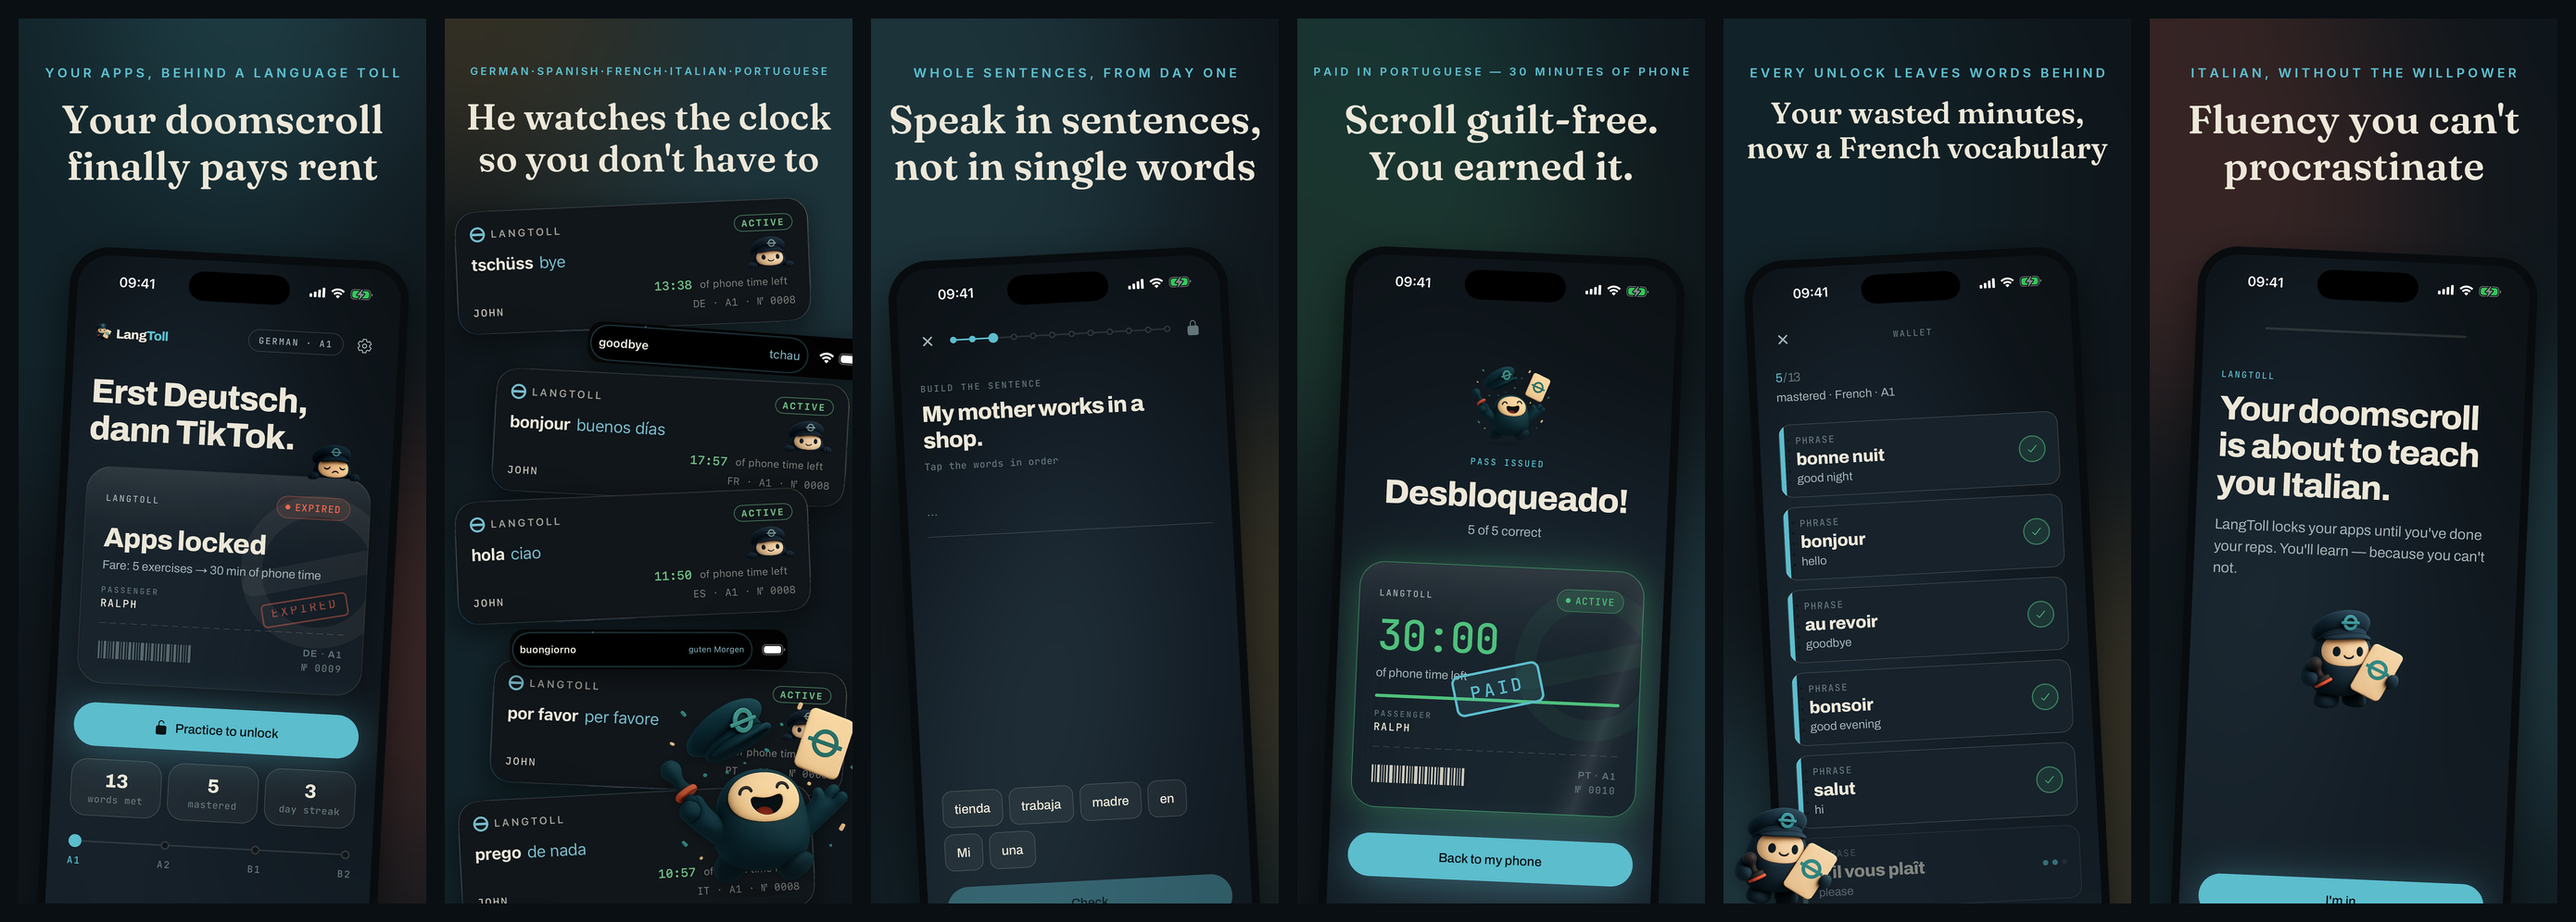
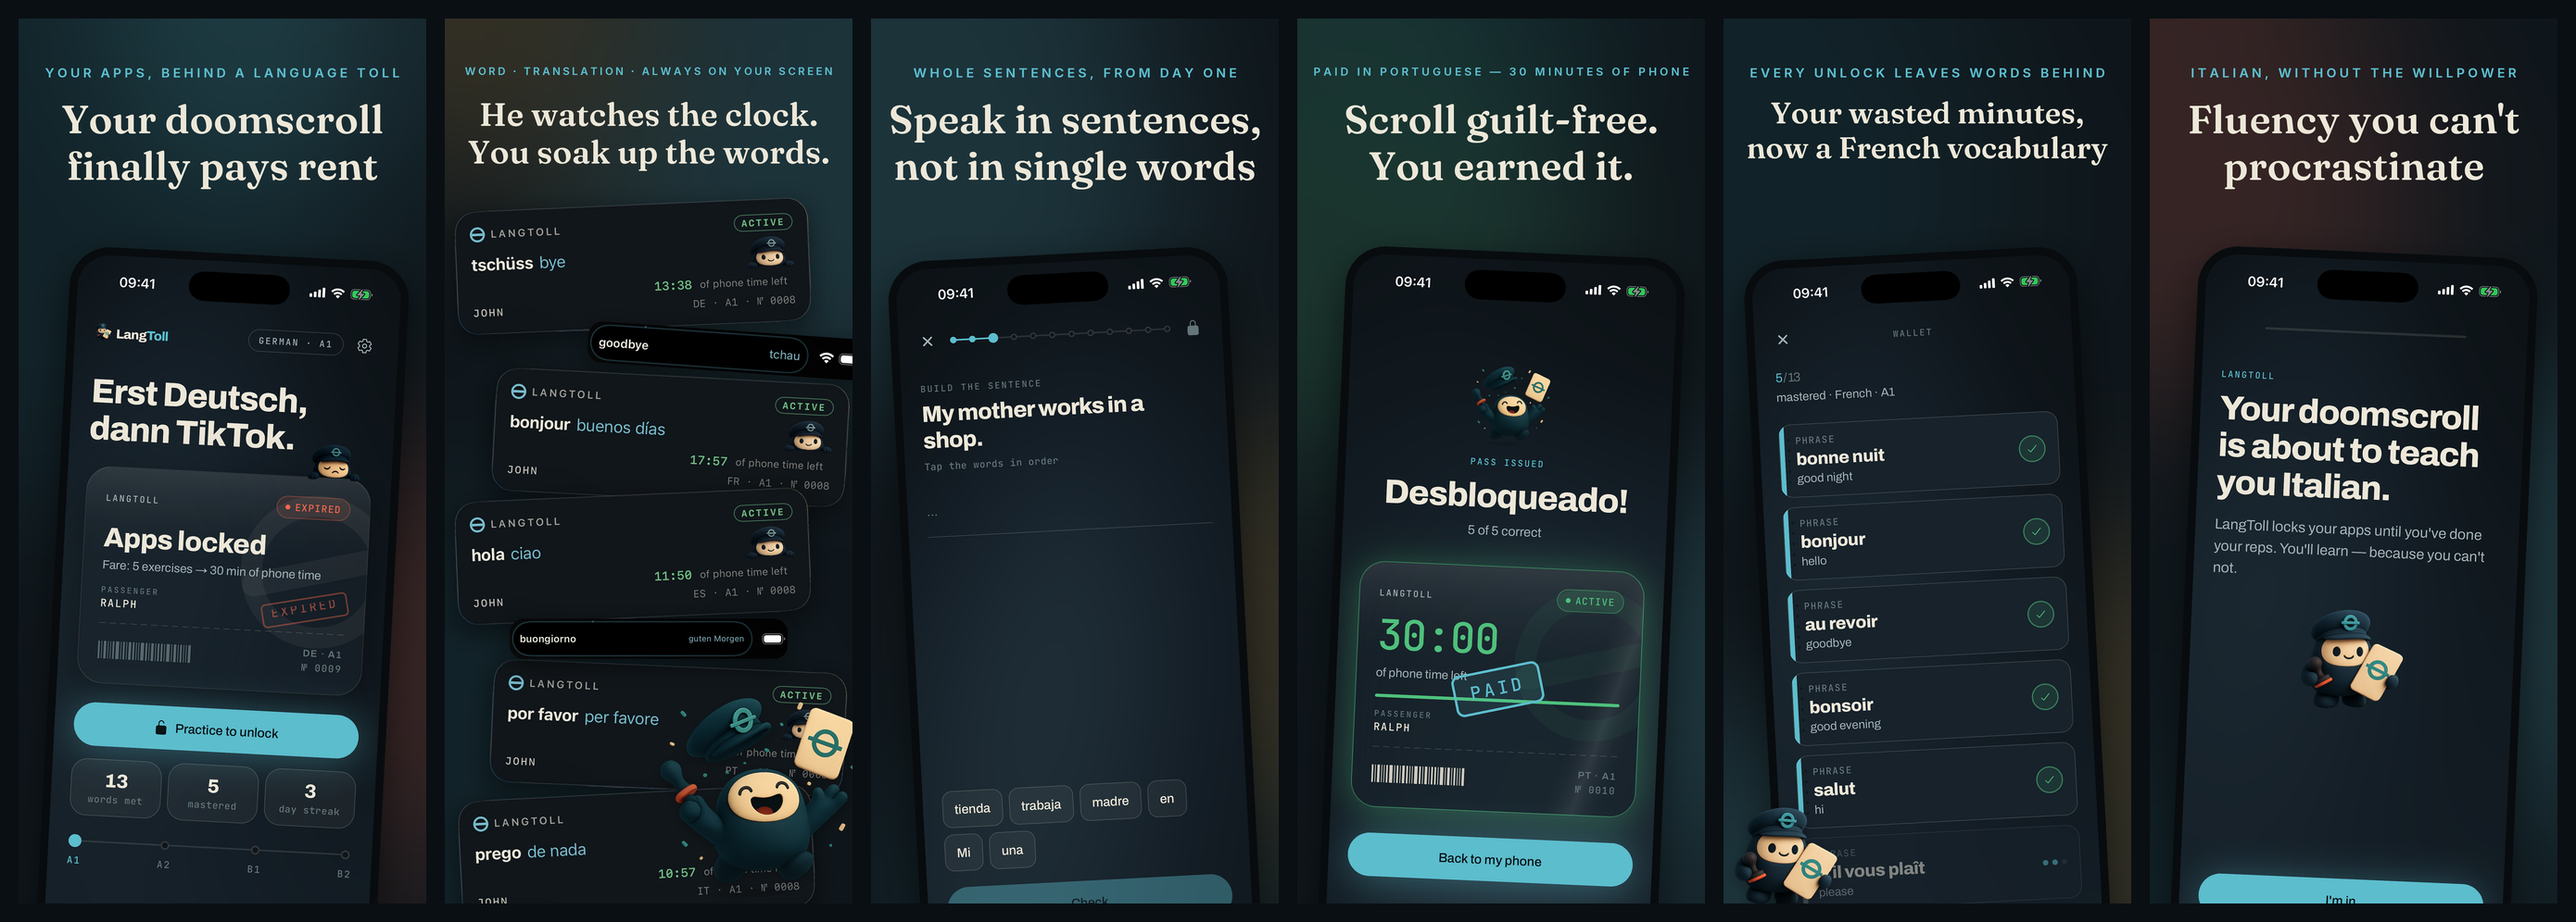
shots: shot 2 final — He watches the clock. You soak up the words.
The pill settles at its midpoint, and the copy now splits the two surfaces'
jobs: kicker states the mechanism (word · translation · always on your
screen), headline sells the becoming — Tolly minds the countdown, the learner
absorbs the language. Founder-approved.

Claude-Session: https://claude.ai/code/session_01WH3gWNvxtpgQbCP3L1S9tL

Changed region(s): [[0.1856, 0.0622, 0.3403, 0.1867], [0.1856, 0.6536, 0.3094, 0.7159]]

diff --git a/langtoll-mobile/marketing/appstore/store_shots.py b/langtoll-mobile/marketing/appstore/store_shots.py
@@ -232,8 +232,8 @@ SHOTS = [
         # lock screen and up top all day. Real device crops, no bezel needed.
         # The overline is the catalogue itself. (Never name the island feature.)
         "name": "02_watch",
-        "kicker": "german·spanish·french·italian·portuguese",
-        "headline": "He watches the clock\nso you don't have to",
+        "kicker": "word · translation · always on your screen",
+        "headline": "He watches the clock.\nYou soak up the words.",
         "aurora": [(TEAL, 0.85, 0.2, 0.5), (TEAL_DEEP, 0.15, 0.8, 0.55), (AMBER, 0.2, 0.05, 0.3)],
         # The catalogue, scattered (founder direction 2026-08-10): every course
         # language rains down the canvas as real device captures — island pills
@@ -247,7 +247,7 @@ SHOTS = [
             {"path": "raw/raw_lock_hola_ciao_exact.png", "w": 1150, "tilt": 2.5, "x": -100, "y": 1390},
             {"path": "raw/raw_lock_porfavor_perfavore_exact.png", "w": 1150, "tilt": -2.5, "x": 15, "y": 1945},
             {"path": "raw/raw_lock_prego_denada_exact.png", "w": 1150, "tilt": 3.0, "x": -90, "y": 2350},
-            {"path": "raw/raw_island_buongiorno_full.jpg", "w": 900, "tilt": 0.0, "y": 1860},
+            {"path": "raw/raw_island_buongiorno_full.jpg", "w": 900, "tilt": 0.0, "y": 1825},
         ],
         "tollys": [{"name": "tolly-celebrate", "w": 640, "x": 640, "y": 2120, "tilt": 3.0}],
     },
